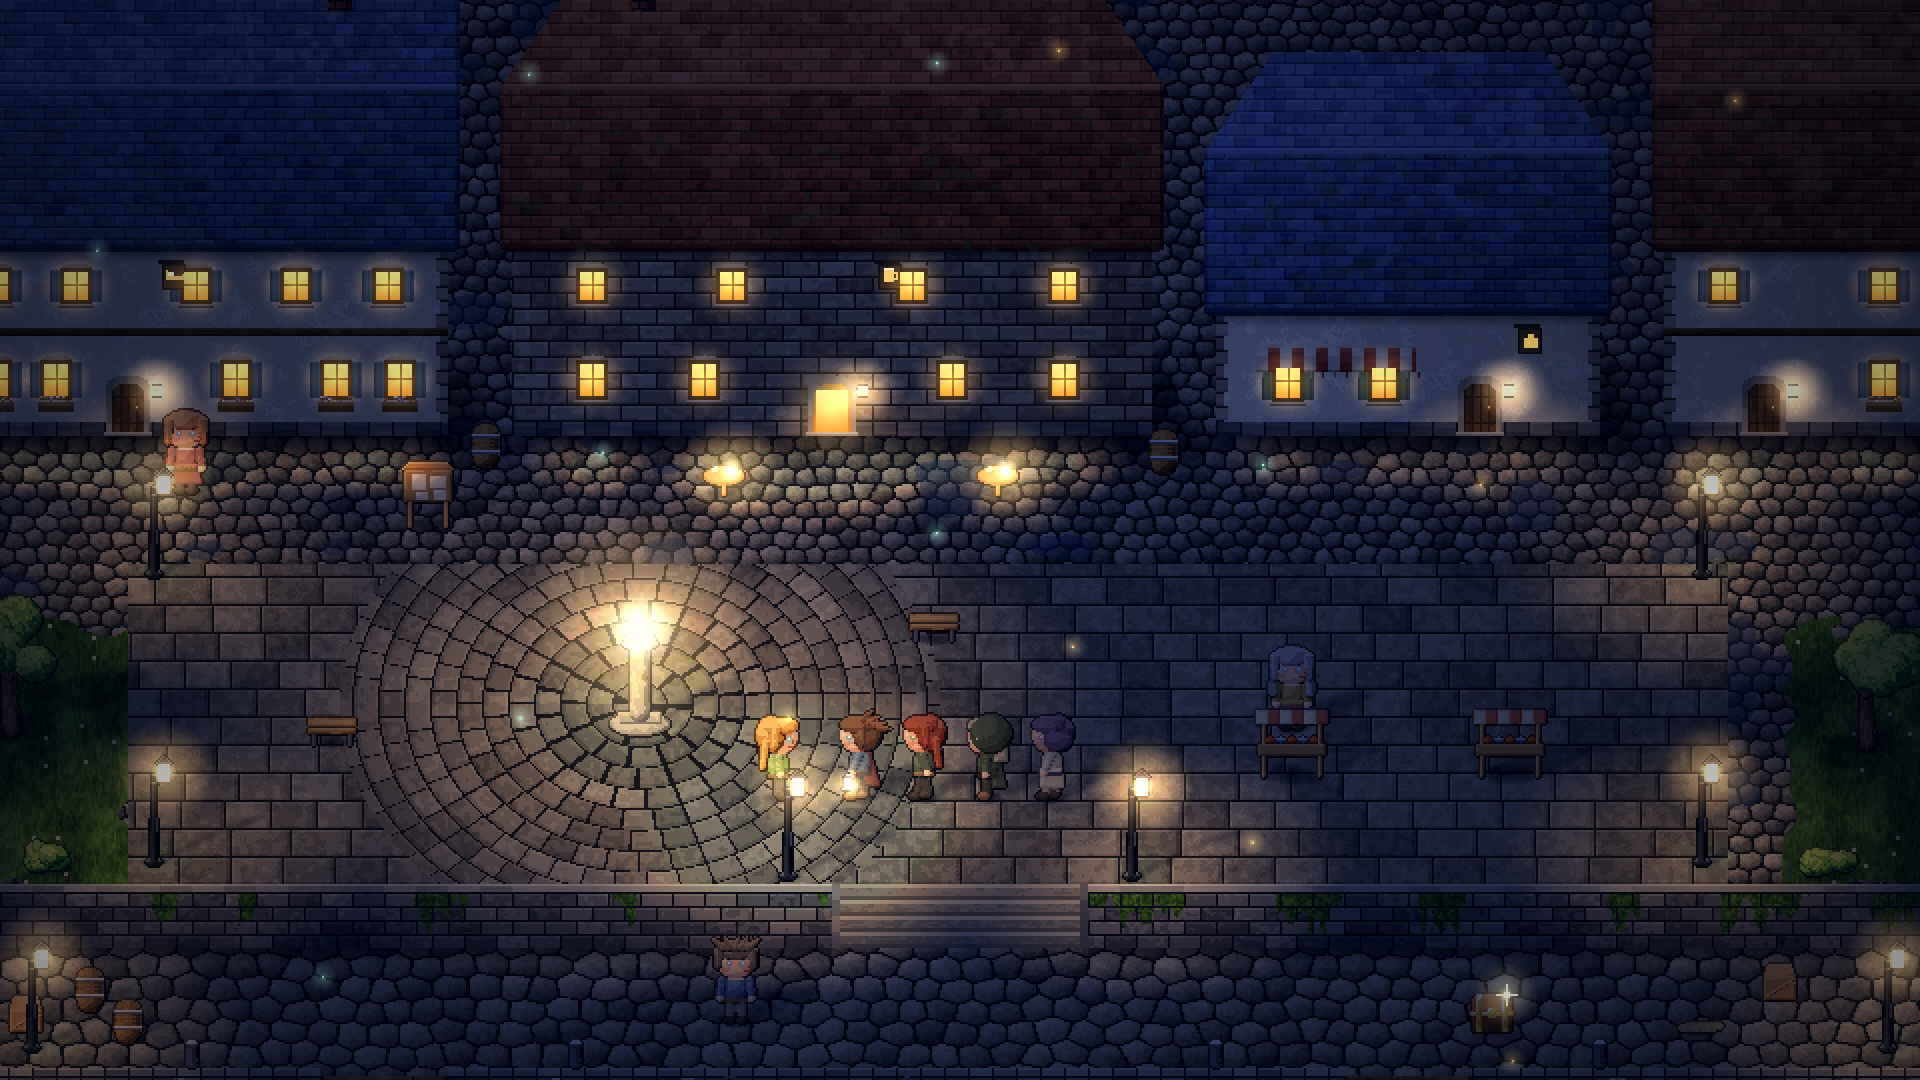
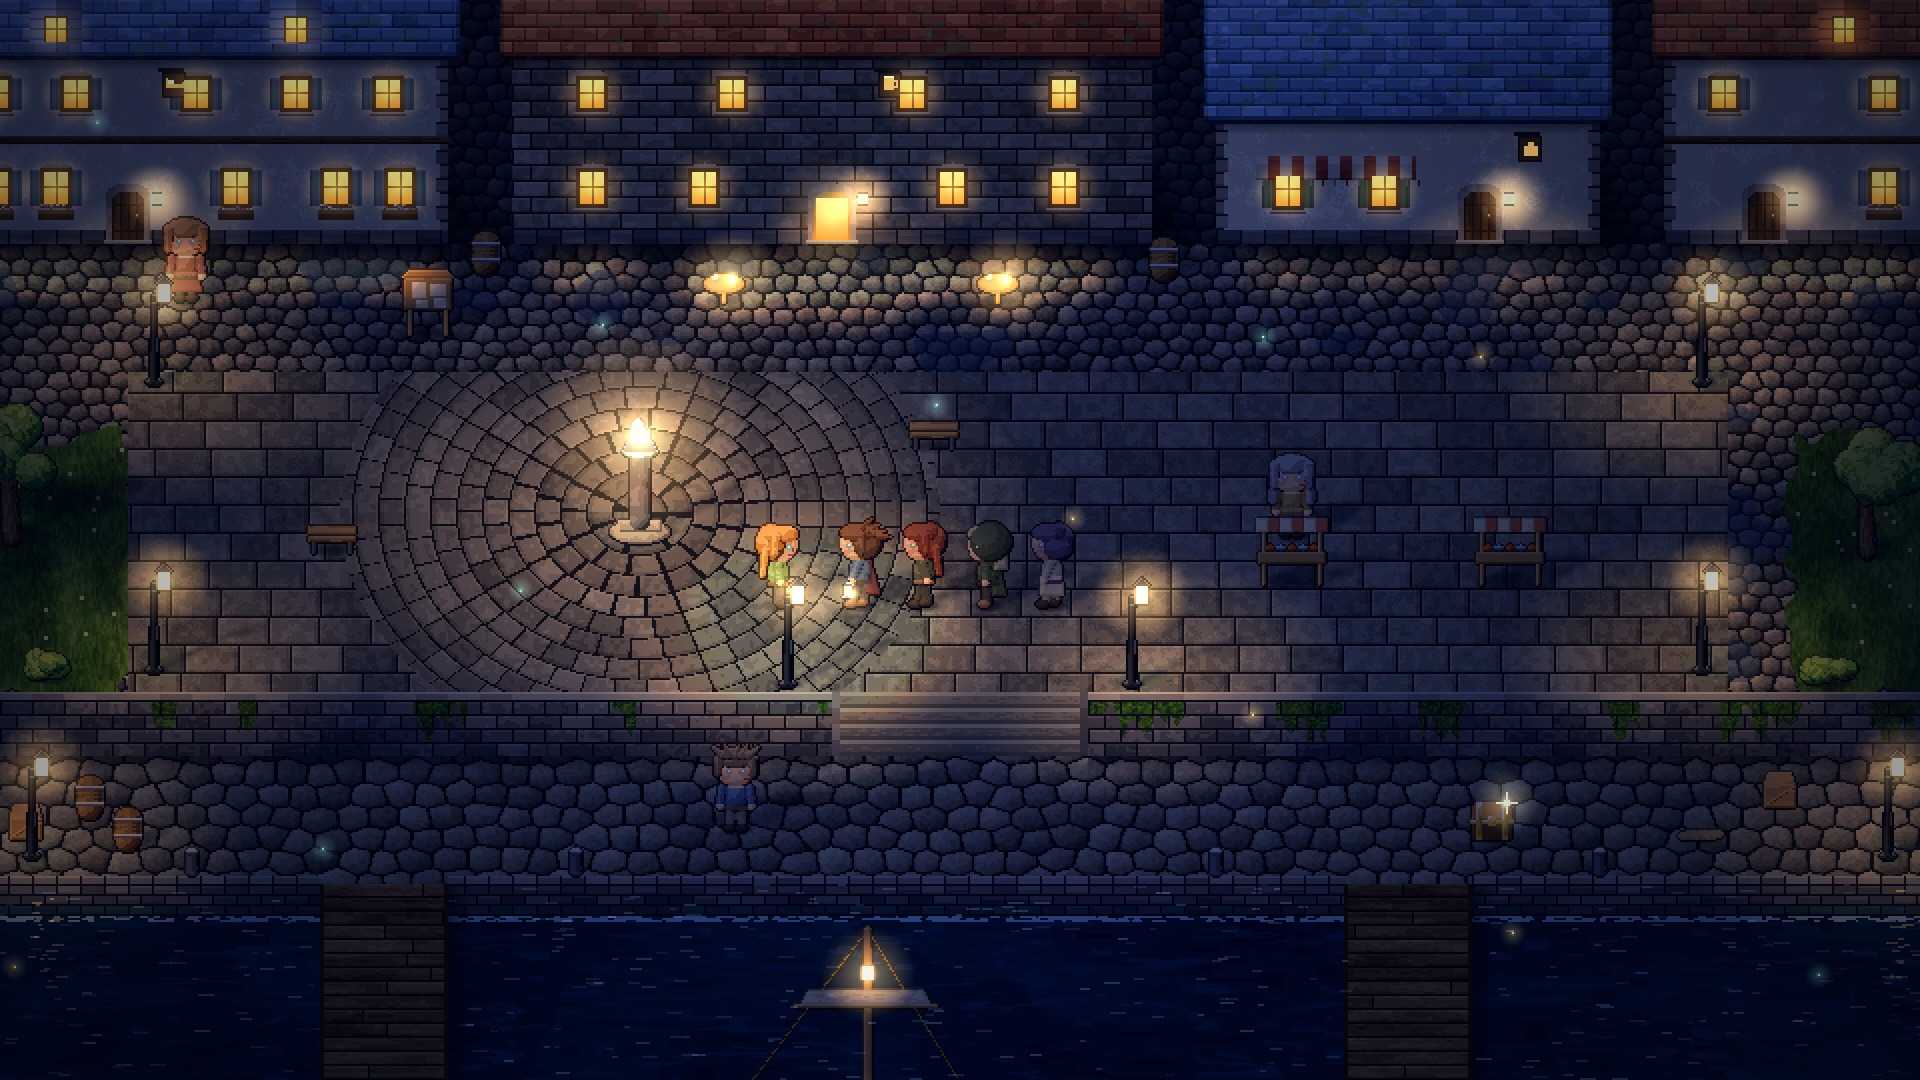
chronicle: WIP from running agents
Claude-Session: https://claude.ai/code/session_0177zLTT6UFzP7vKu3AgJSLT

diff --git a/chronicle/design/art_proto/ui/art_town.js b/chronicle/design/art_proto/ui/art_town.js
@@ -45,7 +45,7 @@
   G.TD_PAL = P;
 
   function cobbleAt(x, y, o) {
-    o = o || {}; const cw = o.cw || 11, ch = o.ch || 8, rs = o.ramp || P.cobble;
+    o = o || {}; const cw = o.cw || 9, ch = o.ch || 7, rs = o.ramp || P.cobble;
     const j = Math.floor(y / ch);
     let d1 = 1e9, d2 = 1e9, sx = 0, sy = 0, id = 0;
     for (let dj = -1; dj <= 1; dj++) {
@@ -59,11 +59,14 @@
     }
     if (d2 - d1 < 0.9) return o.mortar || P.mortar;
     const nx = (x + 0.5 - sx) / (cw * 0.5), ny = (y + 0.5 - sy) / (ch * 0.5);
-    let l = 0.52 - nx * 0.16 - ny * 0.28 + (vnoise(x * 0.5, y * 0.5, 3) - 0.5) * 0.22 + (H3(id, 0, 5) - 0.5) * 0.3;
-    if (d2 - d1 < 1.8) l -= 0.16;
+    const fl = o.flat ? 0.35 : 1;
+    let l = 0.52 - (nx * 0.16 + ny * 0.28) * fl + (vnoise(x * 0.5, y * 0.5, 3) - 0.5) * 0.22 + (H3(id, 0, 5) - 0.5) * 0.3 * (o.flat ? 0.7 : 1);
+    if (d2 - d1 < 1.8) l -= o.flat ? 0.08 : 0.16;
+    if (o.flat && d2 - d1 < 2.6 && ny < 0) l += 0.06;
     return pick(rs, l);
   }
-  function flagAt(x, y) {
+  function flagAt(x, y) { return cobbleAt(x, y, { cw: 26, ch: 16, ramp: P.flag, mortar: P.flagMortar, flat: true }); }
+  function flagAtOld(x, y) {
     const rh = 14, row = Math.floor(y / rh), off = H3(row, 0, 9) * 20, bw = 22 + H3(row, 1, 9) * 8;
     const col = Math.floor((x + off) / bw), ex = (x + off) - col * bw, ey = y - row * rh;
     if (ex < 1 || ey < 1) return P.flagMortar;
@@ -191,18 +194,25 @@
       let side = 0;
       if (hip && y < ry1) { const t = (y - ry0) / (ridgeY - ry0); const inset = y < ridgeY ? hip * (1 - t) : 0; if (lx < -over + inset) return null; if (lx > b.tw * TS + over - inset) return null; if (y < ridgeY) { if (lx < -over + hip * 1.0 - (y - ry0) * (hip / (ridgeY - ry0)) * 0 && lx < inset + 10) side = -1; } }
       const back = y < ridgeY;
-      // shingles
-      const rh = 6, row = Math.floor((y - ry0) / rh), off = (row & 1) * 5, col = Math.floor((x + off) / 10), ey = (y - ry0) - row * rh, ex = (x + off) - col * 10;
-      let l = back ? 0.62 - (ridgeY - y) / (ridgeY - ry0) * 0.12 : 0.46 - (y - ridgeY) / (ry1 - ridgeY) * 0.14;
-      l += (H3(col, row, sid) - 0.5) * 0.22 + (vnoise(x * 0.2, y * 0.2, 13) - 0.5) * 0.12;
-      if (ey === rh - 1) l -= 0.3; else if (ey === 0) l += 0.08;
-      if (ex === 0 && ey < rh - 1) l -= 0.18;
-      l += (1 - (x - x0 + over) / (b.tw * TS + over * 2)) * 0.1; // moon from the left
-      if (Math.abs(y - ridgeY) < 2) l = y < ridgeY ? 0.82 : 0.68; // ridge cap
+      // shingles: clear rows, staggered tabs, moonlit back slope
+      const rh = 7, row = Math.floor((y - ry0) / rh), off = (row & 1) * 6, col = Math.floor((x + off) / 12), ey = (y - ry0) - row * rh, ex = (x + off) - col * 12;
+      let l = back ? 0.72 - (ridgeY - y) / (ridgeY - ry0) * 0.14 : 0.5 - (y - ridgeY) / (ry1 - ridgeY) * 0.16;
+      l += (H3(col, row, sid) - 0.5) * 0.2 + (vnoise(x * 0.2, y * 0.2, 13) - 0.5) * 0.1;
+      if (ey === rh - 1) l -= 0.34; else if (ey === rh - 2) l -= 0.1; else if (ey === 0) l += 0.12;
+      if (ex === 0 && ey < rh - 1) l -= 0.22;
+      l += (1 - (x - x0 + over) / (b.tw * TS + over * 2)) * 0.12; // moon from the left
+      if (Math.abs(y - ridgeY) < 2) l = y < ridgeY ? 0.95 : 0.78; // ridge cap
       if (y >= ry1) l = 0.12 - (y - ry1) * 0.03; // eave underside
       if (x < x0 - over + 2) l -= 0.15; if (x > x1 + over - 3) l -= 0.25; // fascia
       if (vnoise(x * 0.15, y * 0.3, sid + 3) > 0.8 && !back) return mix(pick(RR, l), [70, 90, 50], 0.35); // moss
       return pick(RR, l);
+    });
+    // dormers on the front slope (small gabled windows, lit)
+    (b.dormers || []).forEach((dx) => {
+      const cx = x0 + dx, top = ridgeY + 4, bot = ry1 - 4, w = 22;
+      buf.fill(cx - w / 2 - 2, top, cx + w / 2 + 2, bot, (x, y) => { const t = (y - top) / (bot - top), half = (w / 2 + 2) * Math.min(1, 0.35 + t * 1.3); if (Math.abs(x - cx) > half) return null; return pick(RR, 0.35 + (x < cx ? 0.2 : 0) + ((y - top) % 5 === 4 ? -0.2 : 0)); });
+      buf.fill(cx - 6, bot - 14, cx + 6, bot - 1, (x, y) => (x === cx - 6 || x === cx + 5 || y === bot - 14) ? pick(P.timber, 0.3) : x === cx ? pick(P.timber, 0.5) : pick(P.glass, 0.9 - (y - bot + 14) * 0.03));
+      emit.push({ kind: 'win', x: cx - 5, y: bot - 13, w: 10, h: 12 });
     });
     // hip end faces: redraw the triangles darker/lighter
     if (hip) {
@@ -224,7 +234,7 @@
     }
     const c = buf.done();
     // sign icons drawn with the vector set (small, crisp enough at art px)
-    return { canvas: c, ox: x0, oy: wy1, emit, x: b.tx * TS, y: (b.ty + b.th) * TS, b, W, H, ry0, x0 };
+    return { canvas: c, ox: x0, oy: wy1, emit, x: b.tx * TS, y: (b.ty + b.th) * TS, b, W, H, ry0, ry1, x0 };
   }
 
   // ------------------------------------------------------------------ props (rasterizer)
@@ -273,7 +283,7 @@
     beacon(B) { // the town's great lamp: stone column with a brazier (town centre)
       B.ell(0, -2, 15, 6, M.stone, 0, { bulge: 0.5 });
       B.poly([[-11, -2], [11, -2], [11, -8], [-11, -8]], M.stone, 0.05, { bevel: 2 });
-      B.cap(0, -8, 0, -40, 5.5, 4.5, M.stone, 0.1);
+      B.cap(0, -8, 0, -40, 5.5, 4.5, mat({ keys: ['#16141a', '#2a282e', '#44424a', '#626068', '#807c84'], n: 6, tex: 1.4, tsx: 0.5, tsy: 0.3 }), 0.1);
       B.ell(0, -42, 9, 3.5, M.iron, 0.2, { bulge: 0.4 }); B.poly([[-9, -42], [9, -42], [6, -48], [-6, -48]], M.iron, 0.25, { bevel: 1.5 });
       B.ell(0, -50, 5.5, 4.5, M.glowW, 0.3); B.ell(-1, -55, 3, 4, M.glowW, 0.35);
       return { light: [0, -50] };
@@ -294,7 +304,7 @@
       [[-8, -26, 7, 8], [1, -25, 8, 6], [-6, -17, 6, 4], [3, -18, 6, 5]].forEach(([x, y, w, h]) => B.rect(x, y, w, h, M.paper, 0.2));
     },
     bench(B) { B.poly([[-12, -5], [12, -5], [12, -8], [-12, -8]], M.crate, 0.1, { bevel: 1 }); [-9, 9].forEach((x) => B.cap(x, 0, x, -5, 0.8, 0.8, M.iron, 0)); B.poly([[-12, -9], [12, -9], [12, -13], [-12, -13]], M.crate, 0.05, { bevel: 1, ny: -0.5 }); },
-    table(B) { B.ell(0, -9, 10, 5, M.crate, 0.1, { bulge: 0.4 }); B.cap(0, 0, 0, -9, 1.2, 1.2, M.wood, 0); B.ell(-4, -12, 2, 1.6, M.paper, 0.2); B.ell(4, -11, 1.6, 2.4, M.glowW, 0.2); return { light: [4, -12], small: true }; },
+    table(B) { B.ell(0, -9, 10, 5, M.crate, 0.1, { bulge: 0.4 }); B.cap(0, 0, 0, -9, 1.2, 1.2, M.wood, 0); B.ell(-4, -12, 2, 1.6, M.paper, 0.2); B.ell(4, -11, 1.1, 1.8, M.glowW, 0.2); return { light: [4, -12], small: true }; },
     rowboat(B) { B.poly([[-24, -2], [22, -2], [28, -9], [20, -14], [-22, -14], [-28, -8]], M.barrel, 0, { bevel: 4, ny: -0.3 }); B.poly([[-19, -5], [18, -5], [22, -9], [17, -12], [-18, -12], [-22, -8]], mat({ keys: ['#1a0e08', '#2e1c10', '#44301c'], n: 3 }), 0.1, { bevel: 2 }); [-8, 6].forEach((x) => B.rect(x, -13, 3, 9, M.crate, 0.2)); },
     ship(B) { // small fishing ship, deck seen from above-front
       B.poly([[-70, -4], [56, -4], [84, -18], [60, -34], [-66, -34], [-78, -20]], M.barrel, 0, { bevel: 6, ny: -0.2 });
@@ -355,9 +365,10 @@
   }
 
   // compose a scene: ground (canvas), faces, sprites [{r, x, y, z?, shadow}], lights, emissive → canvas (art px)
-  function lightmap(ctx, W, H, amb, lights) {
+  function lightmap(ctx, W, H, amb, lights, moonMask) {
     const lm = mk(W, H), lx = lm.getContext('2d');
     lx.fillStyle = amb; lx.fillRect(0, 0, W, H);
+    if (moonMask) { const t = mk(W, H), tx = t.getContext('2d'); tx.drawImage(moonMask, 0, 0); tx.globalCompositeOperation = 'source-in'; tx.fillStyle = 'rgb(56,64,84)'; tx.fillRect(0, 0, W, H); lx.globalCompositeOperation = 'lighter'; lx.drawImage(t, 0, 0); lx.globalCompositeOperation = 'source-over'; }
     lx.globalCompositeOperation = 'lighter';
     for (const L of lights) {
       const { x, y, r, c, k } = L, sy = L.sy || 0.8;
@@ -419,7 +430,7 @@
       if (t === '~') c = waterAt(x, y);
       else if (t === '=') c = plankAt(x, y, tx >= 24 && ty >= 26 ? true : false);
       else if (t === 'r') c = pick(P.quay, 0.4 + (vnoise(x * 0.12, y * 0.12, 61) - 0.5) * 0.6);
-      else if (t === 'p') c = cobbleAt(x, y, { cw: 16, ch: 11, ramp: P.flag });
+      else if (t === 'p') c = plankAt(x, y, false);
       else if (t === 'a') c = mix(cobbleAt(x, y), [10, 10, 18], 0.55);
       else if (t === 'w' || t === 's') c = [30, 28, 30];
       else if (ts === ',' && t !== '_') c = grassAt(x, y);
@@ -488,6 +499,7 @@
       // ambient occlusion along the wall bases
       for (const bb of blds) { const b = bb.b, x = b.tx * TS - 2, y = (b.ty + b.th) * TS, w = b.tw * TS + 4; const g = ctx.createLinearGradient(0, y, 0, y + 9); g.addColorStop(0, 'rgba(0,0,8,0.55)'); g.addColorStop(1, 'rgba(0,0,8,0)'); ctx.fillStyle = g; ctx.fillRect(x, y, w, 9); }
     }
+    const moonMask = mk(ctx.canvas.width, ctx.canvas.height), mm = moonMask.getContext('2d');
     const items = list.map((it) => ({ y: it.y, it })).concat(blds.map((bb) => ({ y: bb.y, bb })));
     items.sort((a, b) => a.y - b.y);
     for (const { it } of items) if (it && it.kind !== 'flat') {
@@ -498,6 +510,7 @@
     for (const e of items) {
       if (e.bb) {
         const bb = e.bb; ctx.drawImage(bb.canvas, bb.x - bb.x0, bb.y - bb.oy);
+        mm.drawImage(bb.canvas, 0, 0, bb.W, bb.ry1 + 2, bb.x - bb.x0, bb.y - bb.oy, bb.W, bb.ry1 + 2);
         for (const m of bb.emit) {
           const ex = bb.x - bb.x0 + m.x, ey = bb.y - bb.oy + m.y;
           if (m.kind === 'win') { emits.push({ kind: 'win', x: ex, y: ey, w: m.w, h: m.h }); lights.push({ x: ex + m.w / 2, y: bb.y + 14, r: 34, c: [255, 190, 110], k: 0.55, sy: 0.55 }); lights.push({ x: ex + m.w / 2, y: ey + m.h / 2, r: 18, c: [255, 200, 130], k: 0.6 }); }
@@ -515,7 +528,7 @@
           const col = m.cyan ? [120, 230, 240] : [255, 188, 105];
           if (m.big) lights.push({ x: lx, y: it.y, r: 150, c: col, k: 1.0, sy: 0.65 });
           else if (m.small) lights.push({ x: lx, y: it.y, r: 40, c: col, k: 0.6, sy: 0.6 });
-          else lights.push({ x: lx, y: it.y - 4, r: it.kind === 'beacon' ? 230 : it.kind === 'ship' ? 70 : 105, c: col, k: it.kind === 'beacon' ? 1.1 : 0.9, sy: 0.62 });
+          else lights.push({ x: lx, y: it.y - 4, r: it.kind === 'beacon' ? 210 : it.kind === 'ship' ? 70 : 105, c: col, k: it.kind === 'beacon' ? 0.85 : 0.9, sy: 0.62 });
           lights.push({ x: lx, y: ly, r: 26, c: col, k: 0.7 });
           emits.push({ kind: 'point', x: lx, y: ly, cyan: m.cyan, big: it.kind === 'beacon' || m.big });
         }
@@ -523,7 +536,7 @@
         if (it.kind === 'chest' && !it.o.open) emits.push({ kind: 'sparkle', x: it.x + 7, y: it.y - 19 });
       }
     }
-    return { lights, emits };
+    return { lights, emits, moonMask };
   }
   function drawEmissive(ctx, emits, t) {
     for (const e of emits) {
@@ -537,7 +550,7 @@
       } else if (e.kind === 'lamp') { glowA(ctx, e.x, e.y, 16, [255, 200, 120], 0.8); ctx.fillStyle = '#fff2c8'; ctx.fillRect(e.x - 1, e.y - 1, 3, 3); }
       else if (e.kind === 'point') {
         const c = e.cyan ? [140, 240, 250] : [255, 196, 110];
-        glowA(ctx, e.x, e.y, e.big ? 60 : e.small ? 14 : 26, c, e.big ? 0.8 : 0.75); glowA(ctx, e.x, e.y, e.big ? 16 : 6, [255, 250, 230], 0.9);
+        glowA(ctx, e.x, e.y, e.big ? 54 : e.small ? 12 : 24, c, e.big ? 0.7 : 0.7); glowA(ctx, e.x, e.y, e.big ? 8 : 4, [255, 236, 190], 0.8);
       } else if (e.kind === 'sparkle') {
         glowA(ctx, e.x, e.y, 16, [255, 240, 180], 0.7);
         ctx.fillStyle = '#fffbe8'; ctx.fillRect(e.x - 5, e.y, 11, 1); ctx.fillRect(e.x, e.y - 5, 1, 11); ctx.fillRect(e.x - 1, e.y - 1, 3, 3);
@@ -603,11 +616,11 @@
     [[4, 15.8], [10, 15.8], [20, 15.8], [26, 15.8]].forEach(([x, y]) => place(list, 'bollard', x, y));
     place(list, 'stall', 21.2, 11.3); place(list, 'stall', 24.6, 11.3); place(list, 'board', 7.7, 7.4);
     place(list, 'bench', 6.2, 10.8); place(list, 'bench', 15.6, 9.2);
-    place(list, 'table', 12.3, 6.9); place(list, 'table', 16.6, 6.9); place(list, 'barrel', 19.2, 6.5); place(list, 'barrel', 8.6, 6.4);
+    place(list, 'barrel', 12.1, 6.7); place(list, 'crate', 17.2, 6.8); place(list, 'bush', 20.6, 6.6, { seed: 11 }); place(list, 'barrel', 19.2, 6.5); place(list, 'barrel', 8.6, 6.4);
     place(list, 'barrel', 2.4, 14.9); place(list, 'barrel', 3.0, 15.4); place(list, 'crate', 1.4, 15.3); place(list, 'net', 27.6, 15.3); place(list, 'crate', 28.8, 14.8);
     place(list, 'tree', 1.2, 10.6, { h: 64, seed: 9 }); place(list, 'tree', 30.2, 10.8, { h: 60, seed: 4 }); place(list, 'bush', 1.8, 12.8, { seed: 3 }); place(list, 'bush', 29.6, 12.9, { seed: 8 });
     place(list, 'chest', 24.3, 15.3);
-    place(list, 'ship', 14.2, 20.4); place(list, 'rowboat', 3.4, 21.6); place(list, 'rowboat', 26.6, 21.2, { flip: true });
+    place(list, 'ship', 14.6, 18.9); place(list, 'rowboat', 3.4, 17.9); place(list, 'rowboat', 27.2, 18.2, { flip: true });
     place(list, 'beacon', 12.5, 33.4, { scale: 1.3 });
     person(list, LOOK.arun, 'left', 1, 14.45, 11.7, { lantern: true, ldx: -4 });
     person(list, LOOK.selma, 'left', 2, 15.45, 11.7);
@@ -617,8 +630,8 @@
     person(list, NP.merchant, 'down', 0, 21.2, 10.6);
     person(list, NP.sailor, 'down', 0, 12.5, 15.2);
     person(list, NP.innkeeper, 'down', 0, 3.9, 6.9);
-    const { lights, emits } = composeScene(ctx, list, blds);
-    lightmap(ctx, W, H, 'rgb(76,90,146)', lights);
+    const { lights, emits, moonMask } = composeScene(ctx, list, blds);
+    lightmap(ctx, W, H, 'rgb(76,90,146)', lights, moonMask);
     const isWater = (x, y) => townTile(Math.floor(x / TS), Math.floor(y / TS)) === '~';
     moonWater(ctx, W, H, isWater, lights.filter((L) => L.r >= 100).map((L) => ({ x: L.x, y: L.y + 14 })), 5);
     drawEmissive(ctx, emits);

diff --git a/chronicle/design/art_proto/ui/screens_field.js b/chronicle/design/art_proto/ui/screens_field.js
@@ -50,5 +50,5 @@
     K.device(); ctx.drawImage(out, 0, 0); K.logical();
     return { W, H, tall, vx: tall ? vxT : vx, vy: tall ? vyT : vy };
   };
-  SCREENS.town_raw = async function (o) { const s = TOPDOWN.town(); G.fieldView(o, s, 32, 6, 240, 0); };
+  SCREENS.town_raw = async function (o) { const s = TOPDOWN.town(); G.fieldView(o, s, 32, 70, 240, 0); };
 })(window);
